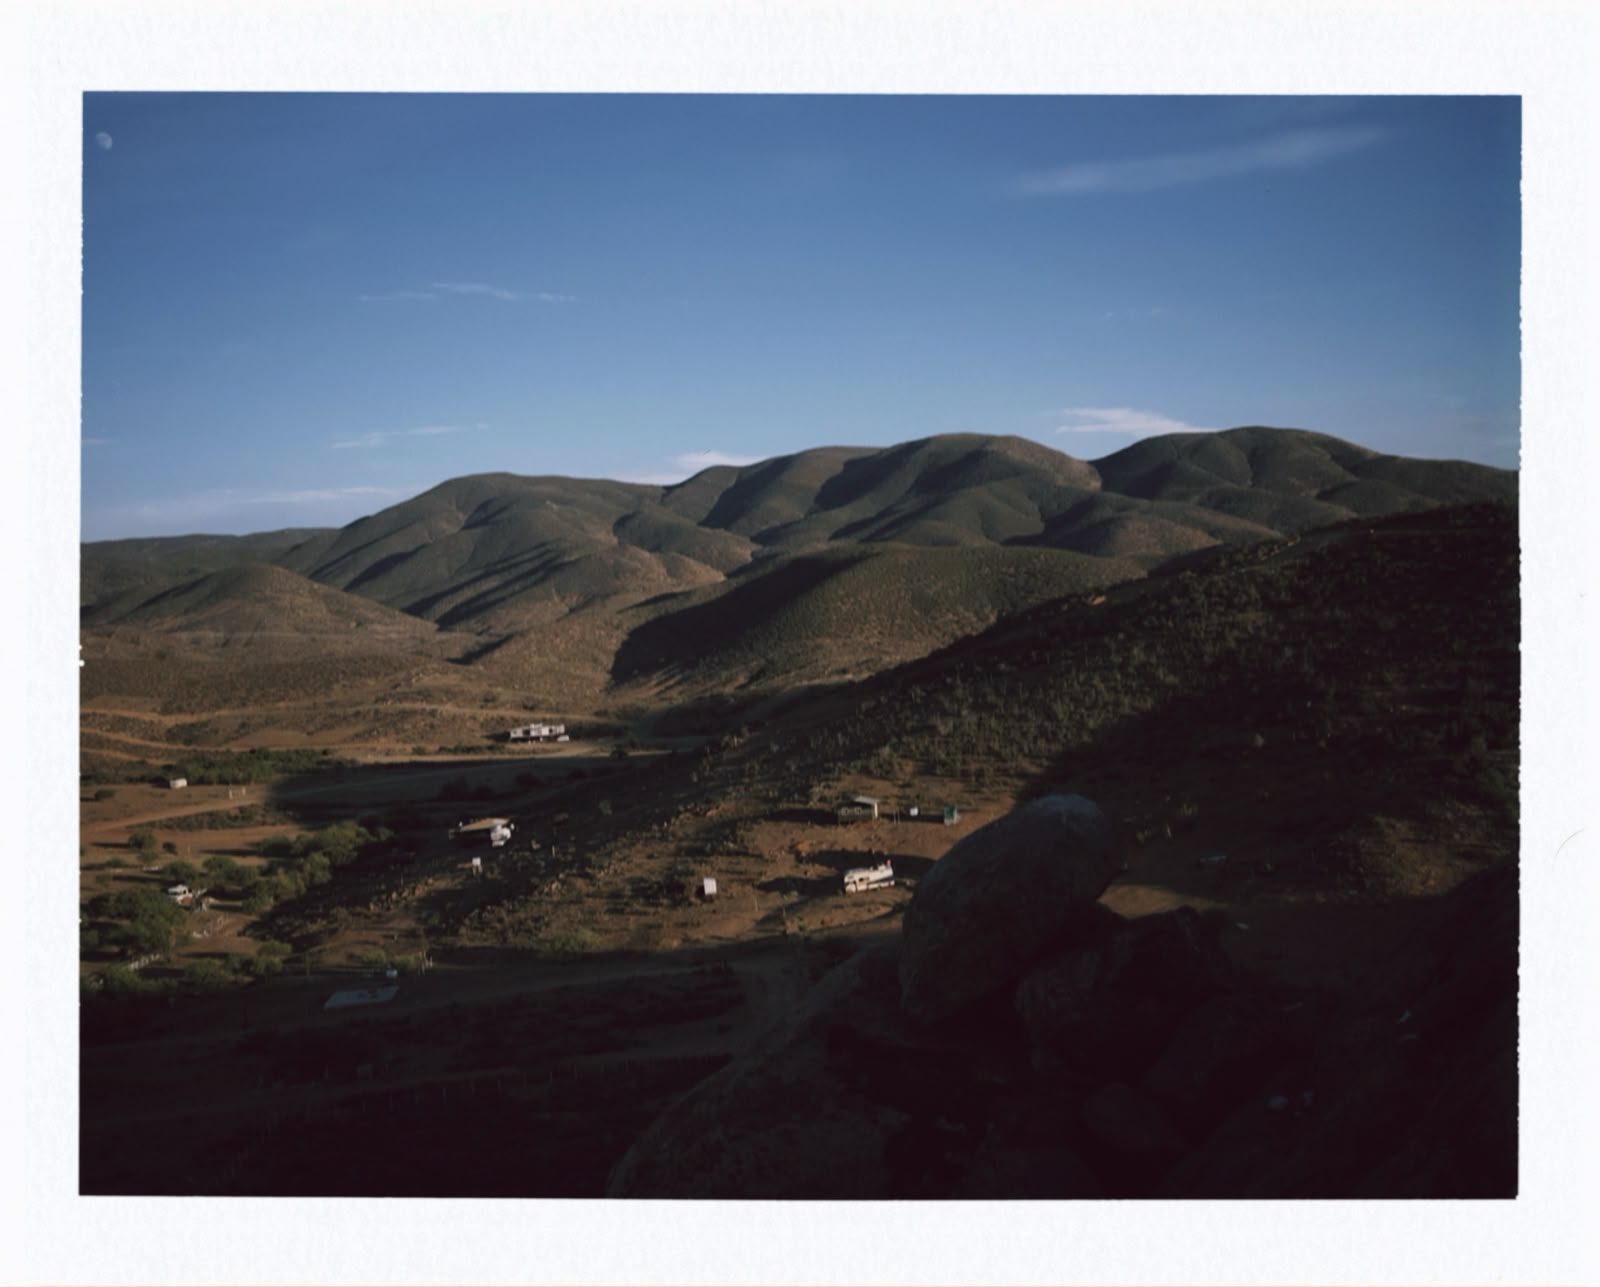
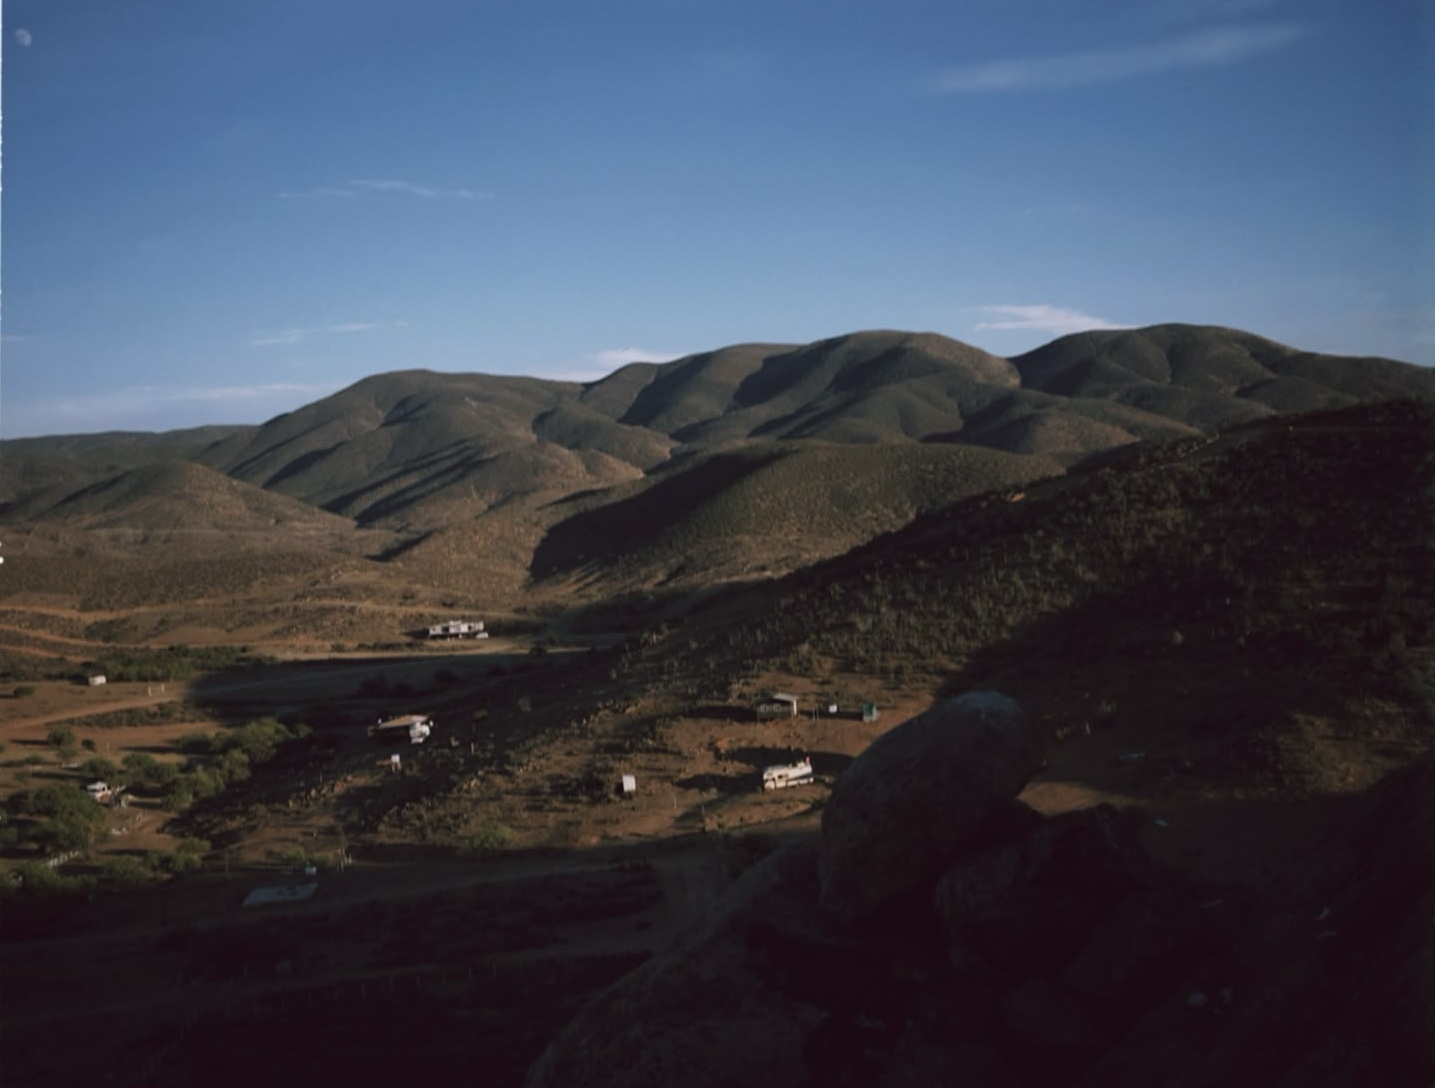
styling update and use of variable for dark and light mode, change padding size in index hero and added images to about pages EN/ES

diff --git a/src/components/ExperienceGridEs.vue b/src/components/ExperienceGridEs.vue
@@ -1,61 +1,41 @@
 <template>
   <section class="py-12 bg-transparent">
-    <!-- Navegación de Filtros -->
-    <div class="flex flex-col sm:flex-row justify-between items-start sm:items-center border-b border-stone-200 pb-6 mb-10 gap-4">
+    <!-- Emcabezado-->
+    <div class="flex flex-col sm:flex-row justify-between items-start sm:items-center border-b border-[var(--color-border-main)] pb-6 mb-10 gap-4">
       <div>
-        <span class="text-xs font-sans tracking-widest uppercase text-stone-400 block mb-1">Estancia Curada</span>
-        <h2 class="text-3xl font-serif m-0 text-stone-900 uppercase tracking-wide">La Experiencia del Valle</h2>
-      </div>
-      
-      <!-- Pestañas de Filtro -->
-      <div class="flex gap-2 p-1 bg-stone-100 rounded-none border border-stone-200 font-sans">
-        <button 
-          v-for="tab in ['todos', 'relajación', 'aventura']" 
-          :key="tab"
-          @click="activeFilter = tab"
-          :class="[
-            'px-4 py-2 text-xs uppercase tracking-widest transition-all font-medium rounded-none cursor-pointer',
-            activeFilter === tab 
-              ? 'bg-stone-900 text-stone-50 shadow-sm font-semibold' 
-              : 'text-stone-600 hover:text-stone-900 hover:bg-stone-50'
-          ]"
-        >
-          {{ tab }}
-        </button>
+        <span class="text-xs font-sans tracking-widest uppercase text-[var(--color-text-light)] block mb-1">Estancia Curada</span>
+        <h2 class="text-3xl font-serif m-0 text-yellow uppercase tracking-wide">La Experiencia del Valle</h2>
       </div>
     </div>
 
     <!-- Matriz de Cuadrícula Responsiva -->
-    <div class="grid grid-cols-1 md:grid-cols-2 lg:grid-cols-3 gap-8">
+    <div class="grid grid-cols-1 lg:grid-cols-3 gap-8">
       <div 
         v-for="exp in filteredExperiences" 
         :key="exp.id"
-        class="group bg-white border border-stone-100 shadow-sm overflow-hidden flex flex-col transition-all duration-300 hover:shadow-md hover:border-stone-200"
+        class="group bg-[var(--color-bg-datacard)] border border-[var(--color-border-main)] shadow-sm overflow-hidden flex flex-col transition-all duration-300 hover:shadow-md hover:border-stone-200"
       >
         <!-- Marco de la Imagen -->
-        <div class="relative overflow-hidden aspect-[4/3] bg-stone-100">
+        <div class="relative overflow-hidden aspect-[4/3] bg-[var(--color-bg-tint)]">
           <img 
             :src="exp.image" 
             :alt="exp.title"
             class="w-full h-full object-cover transition-transform duration-500 group-hover:scale-105"
           />
-          <span class="absolute top-4 left-4 bg-stone-900/80 backdrop-blur-sm text-[10px] text-stone-100 tracking-widest uppercase px-2.5 py-1 font-sans">
-            {{ exp.category }}
-          </span>
         </div>
 
         <!-- Área de Contenido -->
         <div class="p-6 flex-1 flex flex-col justify-between">
           <div>
-            <h3 class="text-xl font-serif font-normal text-stone-900 tracking-wide mt-0 mb-2">
+            <h3 class="text-xl font-serif font-normal text-[var(--color-text-main)] tracking-wide mt-0 mb-2">
               {{ exp.title }}
             </h3>
-            <p class="text-sm leading-relaxed text-stone-600 font-sans m-0">
+            <p class="text-sm leading-relaxed text-[var(--color-text-muted)] font-sans m-0">
               {{ exp.description }}
             </p>
           </div>
           <div class="mt-6 pt-4 border-t border-stone-100 flex items-center justify-between">
-            <span class="text-xs font-sans tracking-wider text-stone-400 italic">
+            <span class="text-xs font-sans tracking-wider text-[var(--color-text-light)] italic">
               {{ exp.highlight }}
             </span>
           </div>
@@ -74,50 +54,23 @@ const experiences = ref([
   {
     id: 1,
     title: "Cata de Vinos Privada",
-    category: "relajación",
     description: "Prueba intensos Nebbiolos de la casa y blancos refrescantes en nuestra terraza de concreto, guiado por un sommelier local privado.",
     highlight: "Recorrido por viñedos incluido",
     image: "https://images.unsplash.com/photo-1510812431401-41d2bd2722f3?auto=format&fit=crop&w=800&q=80"
   },
   {
     id: 2,
-    title: "Senderos de Montaña Off-Road",
-    category: "aventura",
-    description: "Equípate y recorre caminos de tierra que cruzan la flora desértica directamente hacia las imponentes montañas que flanquean Tecate.",
-    highlight: "Motos doble propósito provistas",
-    image: "https://images.unsplash.com/photo-1558981806-ec527fa84c39?auto=format&fit=crop&w=800&q=80"
-  },
-  {
-    id: 3,
     title: "Noches Cósmicas de Baja",
-    category: "relajación",
     description: "Aíslate bajo cielos oscuros libres de contaminación lumínica. Disfruta de cobijas abrigadoras, una fogata exterior y un telescopio de rastreo profesional.",
     highlight: "Visibilidad óptima de junio a octubre",
     image: "https://images.unsplash.com/photo-1506318137071-a8e063b4bec0?auto=format&fit=crop&w=800&q=80"
   },
   {
-    id: 4,
-    title: "Alberca Infinita y Jacuzzi",
-    category: "relajación",
+    id: 3,
+    title: "Alberca y Jacuzzi Panomárico",
     description: "Sumérgete en un jacuzzi de piedra arquitectónica que se desborda sutilmente hacia una vista panorámica frente a interminables líneas de vides.",
     highlight: "Climatizado 24/7 con caldera de leña",
     image: "https://images.unsplash.com/photo-1576013551627-0cc20b96c2a7?auto=format&fit=crop&w=800&q=80"
-  },
-  {
-    id: 5,
-    title: "Práctica Tradicional de Tiro con Arco",
-    category: "aventura",
-    description: "Pon a prueba tu enfoque en nuestro campo de tiro de madera rústica utilizando arcos recurrentes tallados a mano y flechas personalizadas.",
-    highlight: "Todos los niveles son bienvenidos",
-    image: "https://images.unsplash.com/photo-1511379938547-c1f69419868d?auto=format&fit=crop&w=800&q=80"
-  },
-  {
-    id: 6,
-    title: "Campos de Tiro Deportivo",
-    category: "aventura",
-    description: "Un espacio seguro, aislado y acústicamente amortiguado en el valle para tiro deportivo de precisión, desafíos con rifles de palanca y lanzamiento de platillos.",
-    highlight: "Estrictos protocolos de seguridad",
-    image: "https://images.unsplash.com/photo-1595590424283-b8f17842773f?auto=format&fit=crop&w=800&q=80"
   }
 ]);
 

diff --git a/src/components/ExperienceGrid.vue b/src/components/ExperienceGrid.vue
@@ -1,61 +1,41 @@
 <template>
   <section class="py-12 bg-transparent">
-    <!-- Filter Navigation Bars -->
-    <div class="flex flex-col sm:flex-row justify-between items-start sm:items-center border-b border-stone-200 pb-6 mb-10 gap-4">
+    <!-- Header Bar -->
+    <div class="flex flex-col sm:flex-row justify-between items-start sm:items-center border-b border-[var(--color-border-main)] pb-6 mb-10 gap-4">
       <div>
-        <span class="text-xs font-sans tracking-widest uppercase text-stone-400 block mb-1">Curated Stay</span>
-        <h2 class="text-3xl font-serif m-0 text-stone-900">The Valle Experience</h2>
-      </div>
-      
-      <!-- Filter Tabs -->
-      <div class="flex gap-2 p-1 bg-stone-100 rounded-none border border-stone-200 font-sans">
-        <button 
-          v-for="tab in ['all', 'relaxation', 'adventure']" 
-          :key="tab"
-          @click="activeFilter = tab"
-          :class="[
-            'px-4 py-2 text-xs uppercase tracking-widest transition-all font-medium rounded-none',
-            activeFilter === tab 
-              ? 'bg-stone-900 text-stone-50 shadow-sm font-semibold' 
-              : 'text-stone-600 hover:text-stone-900 hover:bg-stone-50'
-          ]"
-        >
-          {{ tab }}
-        </button>
+        <span class="text-xs font-sans tracking-widest uppercase text-[var(--color-text-light)] block mb-1">Curated Stay</span>
+        <h2 class="text-3xl font-serif m-0 text-yellow uppercase tracking-wide">The Valle Experience</h2>
       </div>
     </div>
 
     <!-- Responsive Layout Grid Matrix -->
-    <div class="grid grid-cols-1 md:grid-cols-2 lg:grid-cols-3 gap-8">
+    <div class="grid grid-cols-1 lg:grid-cols-3 gap-8">
       <div 
         v-for="exp in filteredExperiences" 
         :key="exp.id"
-        class="group bg-white border border-stone-500 shadow-sm overflow-hidden flex flex-col transition-all duration-300 hover:shadow-md hover:border-stone-200"
+        class="group bg-[var(--color-bg-datacard)] border border-[var(--color-border-main)] shadow-sm overflow-hidden flex flex-col transition-all duration-300 hover:shadow-md hover:border-stone-200"
       >
         <!-- Card Cover Frame Layout -->
-        <div class="relative overflow-hidden aspect-[4/3] bg-stone-100">
+        <div class="relative overflow-hidden aspect-[4/3] bg-[var(--color-bg-tint)]">
           <img 
             :src="exp.image" 
             :alt="exp.title"
             class="w-full h-full object-cover transition-transform duration-500 group-hover:scale-105"
           />
-          <span class="absolute top-4 left-4 bg-stone-900/80 backdrop-blur-sm text-[10px] text-stone-100 tracking-widest uppercase px-2.5 py-1 font-sans">
-            {{ exp.category }}
-          </span>
         </div>
 
         <!-- Content Area -->
         <div class="p-6 flex-1 flex flex-col justify-between">
           <div>
-            <h3 class="text-xl font-serif font-normal text-stone-900 tracking-wide mt-0 mb-2">
+            <h3 class="text-xl font-serif font-normal text-[var(--color-text-main)] tracking-wide mt-0 mb-2">
               {{ exp.title }}
             </h3>
-            <p class="text-sm leading-relaxed text-stone-600 font-sans m-0">
+            <p class="text-sm leading-relaxed text-[var(--color-text-muted)] font-sans m-0">
               {{ exp.description }}
             </p>
           </div>
           <div class="mt-6 pt-4 border-t border-stone-100 flex items-center justify-between">
-            <span class="text-xs font-sans tracking-wider text-stone-400 italic">
+            <span class="text-xs font-sans tracking-wider text-[var(--color-text-light)] italic">
               {{ exp.highlight }}
             </span>
           </div>
@@ -76,42 +56,23 @@ const experiences = ref([
   {
     id: 1,
     title: "Estate Wine Tasting",
-    category: "relaxation",
     description: "Sample bold, estate-grown Nebbiolos and crisp whites right on our concrete viewing deck, curated by a private local sommelier.",
     highlight: "Private vineyard tour included",
     image: "https://images.unsplash.com/photo-1510812431401-41d2bd2722f3?auto=format&fit=crop&w=800&q=80"
   },
   {
     id: 2,
-    title: "Off-Road Mountain Trails",
-    category: "adventure",
-    description: "Gear up and ride dirt paths slicing directly through old-growth desert fauna up into the rustic mountains flanking Tecate.",
-    highlight: "Electric motorbikes provided",
-    image: "https://images.unsplash.com/photo-1558981806-ec527fa84c39?auto=format&fit=crop&w=800&q=80"
-  },
-  {
-    id: 3,
     title: "Baja Cosmic Nights",
-    category: "relaxation",
     description: "Isolate under dark skies completely free of city glow. Enjoy heavy blankets, a concrete crackling fire pit, and a massive tracking telescope.",
     highlight: "Optimal viewing between June-Oct",
     image: "https://images.unsplash.com/photo-1506318137071-a8e063b4bec0?auto=format&fit=crop&w=800&q=80"
   },
   {
-    id: 4,
-    title: "Pool",
-    category: "relaxation",
+    id: 3,
+    title: "Panoramic Pool and Jacuzzi",
     description: "A private, heated pool with a panoramic view of the surrounding desert and mountains, perfect for sunbathing or romantic evenings.",
     highlight: "Heating available year-round",
     image: "/images/pool.jpeg"
-  },
-  {
-    id: 5,
-    title: "Traditional Archery Target Practice",
-    category: "adventure",
-    description: "Test your focus on our raw wood field range using custom hand-carved recurve bows and arrows alongside specialized instructions.",
-    highlight: "All skill levels welcome",
-    image: "https://images.unsplash.com/photo-1511379938547-c1f69419868d?auto=format&fit=crop&w=800&q=80"
   }
 ]);
 

diff --git a/src/styles/global.css b/src/styles/global.css
@@ -4,8 +4,9 @@
   --color-bg-primary: #dbbc9f;       /* Soft, creamy linen white */
   --color-bg-surface: #ffffff;       /* Pure white for cards/forms */
   --color-bg-tint: #f5f0e6;          /* Warm sand tint for highlights */
-  
-  --color-text-main: #9f671f;;        /* Deep stone charcoal for readability */
+  --color-bg-datacard: #dbd8d783;
+
+  --color-text-main: #9f671f;        /* Deep stone charcoal for readability */
   --color-text-title: #9f671f;       /* Dark soil tone for luxury editorial headers */
   --color-text-muted: #3e352b;       /* Muted earth gray */
   --color-text-light: #0c0a09;       /* Light stone for subtle text metadata */
@@ -20,15 +21,17 @@
   --color-bg-primary: #12100e;
   --color-bg-surface: #1c1917;
   --color-bg-tint: #262220;
+  --color-bg-datacard: #35313059;
 
-  --color-text-main: #faf8f5;
-  --color-text-title: #2f2e2e;
-  --color-text-muted: #6d6d6d;
+  --color-text-main: #c7b194;
+  --color-text-title: #cab69d;
+  --color-text-muted: #c9c3c6;
   --color-text-light: #6d6d6d;
 
-  --color-border-main: rgba(245, 240, 230, 0.15);
-  --color-accent: #e07a5f;
-  --color-accent-hover: #f29479;
+  --color-border-main: rgba(128, 120, 105, 0.363);
+  --color-accent: #c9c3c6;
+  --color-accent-hover: #c9bab6;
+
 }
 
 @layer base {
